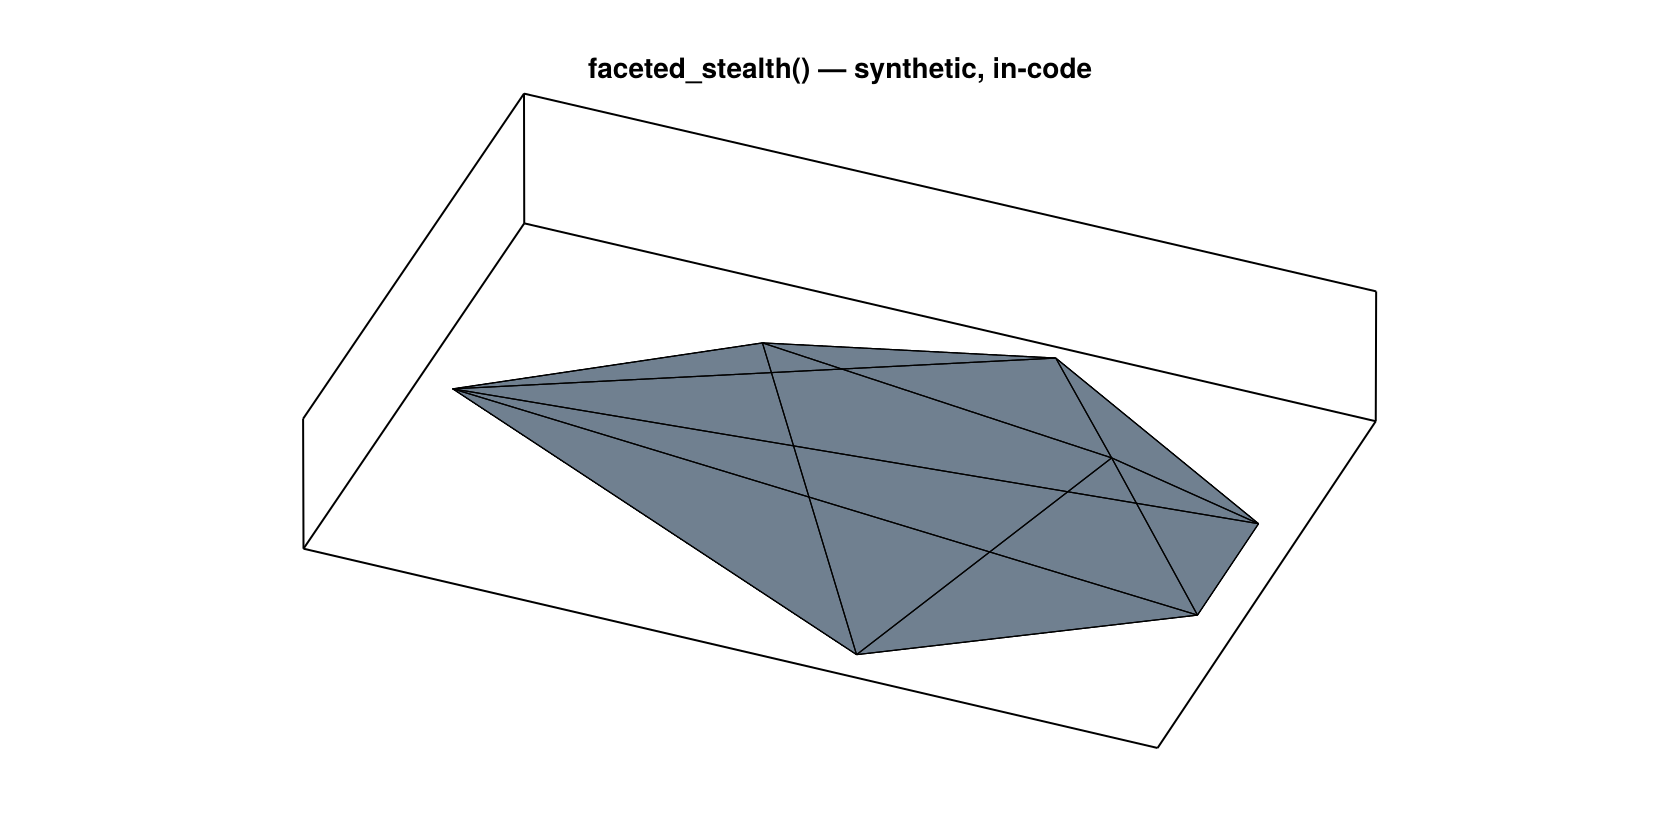
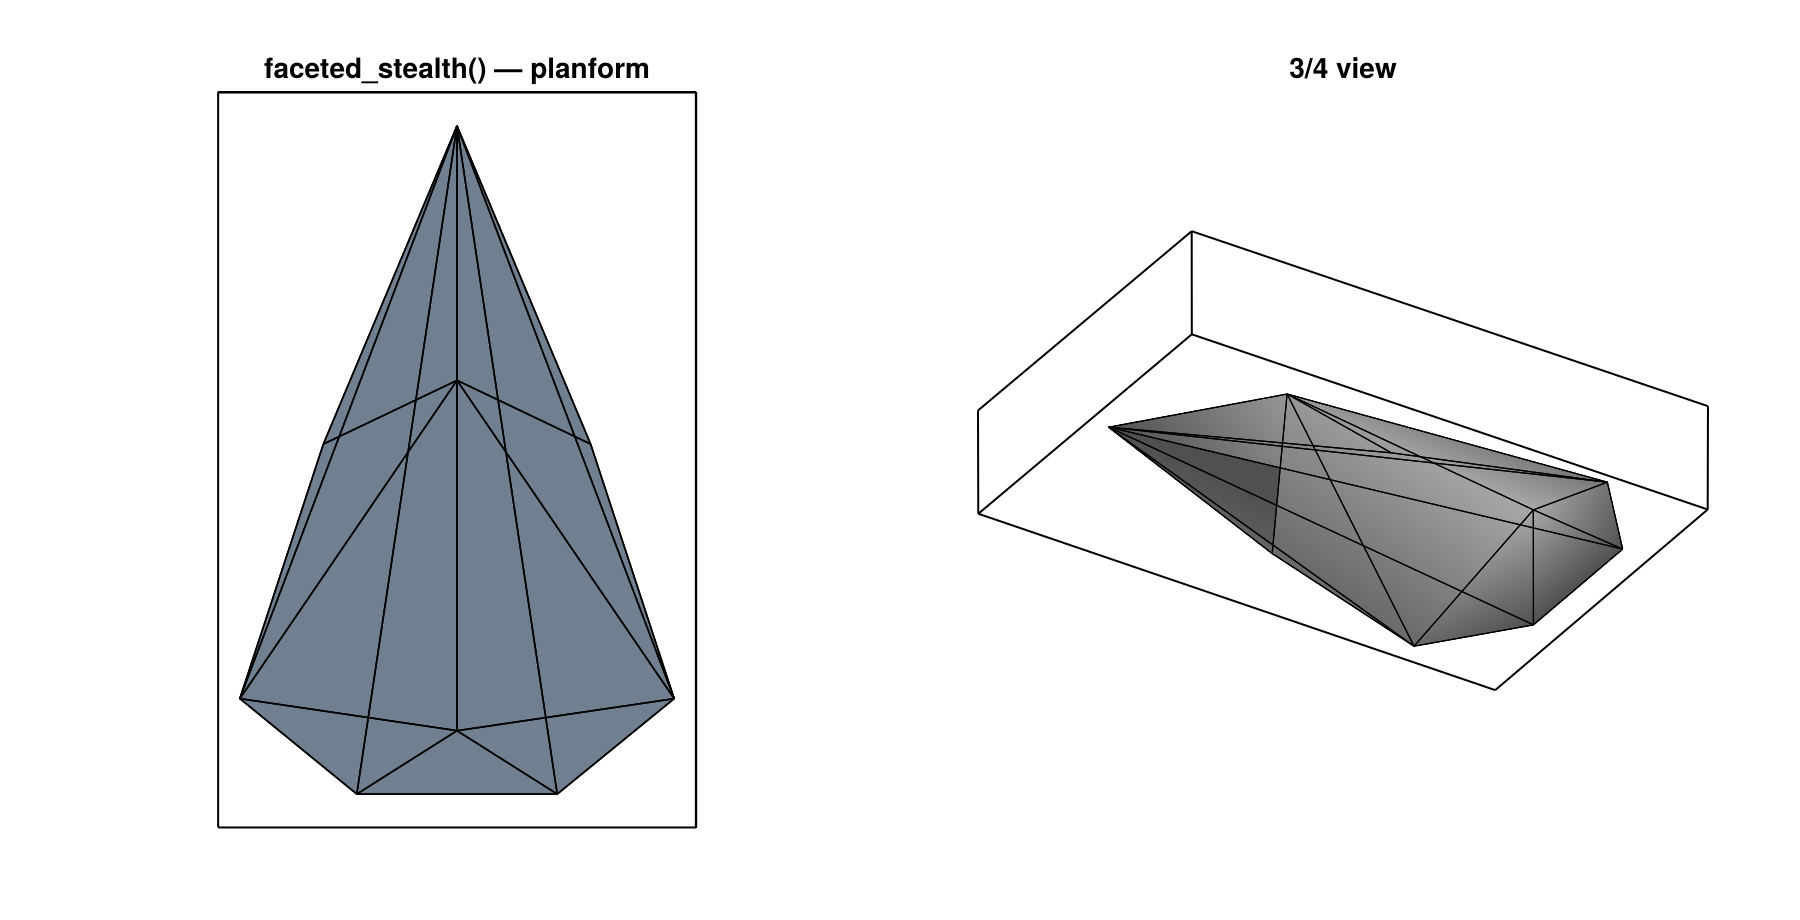
faceted_stealth: recognizable F-117-inspired shape + corrected azimuth sweep
Replace the minimal dart with a recognizable F-117-inspired faceted hull (9 verts /
14 facets: sharp dart nose, ~70deg swept wings, faceted ridged top, flat belly),
with explicit outward face orientation. Fix the stealth-shaping demo: the previous
azimuth sweep rotated in the vertical plane (mislabeling 'nose-on'); now horizontal.
Honest result — faceting drops the worst-angle return ~39 dB below a flat panel of
the same area (no big mirror -> no big flash); the shape isn't tuned for a quiet
nose sector (that's what the optimiser is for). 83/83 tests.

Claude-Session: https://claude.ai/code/session_018c9PiVMATnDNe81R2FrMQR

diff --git a/docs/src/stealth-shaping.md b/docs/src/stealth-shaping.md
@@ -9,8 +9,10 @@ physics.
 
 ## The shape
 
-[`faceted_stealth`](@ref) returns a closed, watertight body: a flat belly, a ridged faceted top,
-and swept wings — 7 vertices, 10 facets, every edge shared by exactly two faces.
+[`faceted_stealth`](@ref) returns a closed, watertight, **F-117-inspired** body: a sharp dart nose,
+wings swept ~70° to wingtips at the rear, a flat belly and a ridged faceted top — 9 vertices,
+14 facets, every edge shared by exactly two faces. (It is a *stylised stand-in*, not the real
+F-117 geometry.)
 
 ```@example stealth
 using LowObservables
@@ -29,44 +31,45 @@ Because it is just geometry, you can refine it for finer facets (`refine`) and s
 
 ## Its radar signature
 
-We sweep the monostatic RCS around the aircraft in the horizontal plane and watch what the faceting
-does. (At VHF/UHF the facets must be ≲ the wavelength for Physical Optics to be valid, so we refine
-to ~2,500 facets and use λ = 1 m — see [Physical Optics](physical-optics.md).)
+We sweep the monostatic RCS around the aircraft in the horizontal plane (azimuth around the vertical
+axis, vertical polarisation). At VHF/UHF the facets must be ≲ the wavelength for Physical Optics to be
+valid, so we refine to ~3,500 facets and use λ = 1 m — see [Physical Optics](physical-optics.md).
 
 ```julia
-mr = m; for _ in 1:4; mr = refine(mr); end          # ~2560 facets (≈ 0.5 m, valid at λ=1 m)
+mr = m; for _ in 1:4; mr = refine(mr); end          # ~3584 facets (≈ 0.5 m, valid at λ=1 m)
 λ = 1.0; k = 2π/λ
-ϕs = range(0, 2π; length = 181); ei = [0.0, 1.0, 0.0]
-σ  = [ptd_rcs_monostatic(mr, [sin(ϕ),0,cos(ϕ)], ei; k=k) for ϕ in ϕs]
+ϕs = range(0, 2π; length = 181); ei = [0.0, 0.0, 1.0]   # vertical pol ⟂ every horizontal look
+σ  = [ptd_rcs_monostatic(mr, [cos(ϕ),sin(ϕ),0], ei; k=k) for ϕ in ϕs]   # ϕ=0 nose-on
 ```
 
 ![faceted stealth RCS](assets/stealth_rcs.png)
 
-| sector | mean RCS |
-|--------|----------|
-| **frontal (±45° of nose-on)** | **−60 dBsm** (the numerical floor — *essentially zero*) |
-| broadside | −6 dBsm |
-| worst-angle flash (tail-on) | +54 dBsm |
+| | RCS |
+|---|---|
+| faceted shape — median | −3.5 dBsm |
+| faceted shape — **worst-angle flash** | **+14 dBsm** |
+| a flat panel of the same area, at specular | **+53 dBsm** (dashed line) |
 
 ## What this shows
 
-- **The frontal threat sector is invisible.** Across ±45° of nose-on (shaded), *no facet is
-  perpendicular to the radar*, so PO deflects every return off-axis — the RCS drops to the floor.
-  The frontal sector is **~54 dB (≈250,000×) quieter than broadside.** That asymmetry is the entire
-  point of stealth shaping: be dark where the threat is.
-- **The energy doesn't disappear — it's redirected.** The sides and rear are *bright*, with sharp
-  flashes where a facet does line up with the radar. This is the optical-theorem law
-  ``σ_\text{tot}=2A`` made visual (see [Physical Optics](physical-optics.md)): a large object always
-  scatters; shaping only steers the backscatter away from the threat, it cannot remove it. Real
-  stealth aircraft accept bright side/rear lobes to win the frontal sector.
-- **It generalises.** The [shape-optimisation](optimization.md) capstone discovers this same
-  principle automatically — given an RCS objective and a size constraint, the optimiser tilts and
-  facets surfaces to deflect the specular, exactly as a designer would.
+- **Faceting kills the specular flash.** A single flat surface facing the radar returns an enormous
+  coherent flash — for a panel this size, ``σ = 4πA^2/λ^2 ≈ +53`` dBsm. Break that surface into
+  small angled facets and *no* facet presents a large flat area back to the radar, so the worst return
+  collapses to **+14 dBsm — about 39 dB (≈8,000×) lower.** That is the core of shaping: never give the
+  radar a big mirror.
+- **The energy is spread, not removed.** The return becomes a low, lobed pattern (median −3.5 dBsm)
+  instead of one giant spike. This is the optical-theorem law ``σ_\text{tot}=2A`` (see
+  [Physical Optics](physical-optics.md)): a large object always scatters *something*; shaping spreads
+  and redirects that energy rather than eliminating it.
+- **Pointing the quiet zones takes optimisation.** This shape is a hand-drawn stand-in, *not* tuned
+  for any particular threat direction — its nose-on return is no quieter than its sides. Real stealth
+  design carefully angles every facet so the residual lobes miss the expected radar directions; the
+  [shape-optimisation](optimization.md) capstone does exactly that automatically, deforming a mesh to
+  minimise RCS over a chosen sector.
 
 ## Caveats
 
-The absolute numbers are honest only as a *demonstration*: PO at this facet size is approximate,
-and a faceted body at VHF is in the resonance regime. Treat the **frontal-vs-side contrast and the
-shaping mechanism** as the result, not the precise dBsm. For why we use this synthetic shape rather
-than a downloaded F-117 model, see the note on model licensing in the project history — in short,
-in-code geometry is reproducible and unencumbered.
+Treat the **shaping *mechanism*** (no big mirror ⇒ no big flash) as the result, not the precise dBsm:
+PO at this facet size is approximate, and a faceted body at VHF is in the resonance regime. The shape
+is a stylised, in-code stand-in — for why we don't ship a downloaded F-117 model (licensing/AI-use
+restrictions), in-code geometry is simply reproducible and unencumbered.